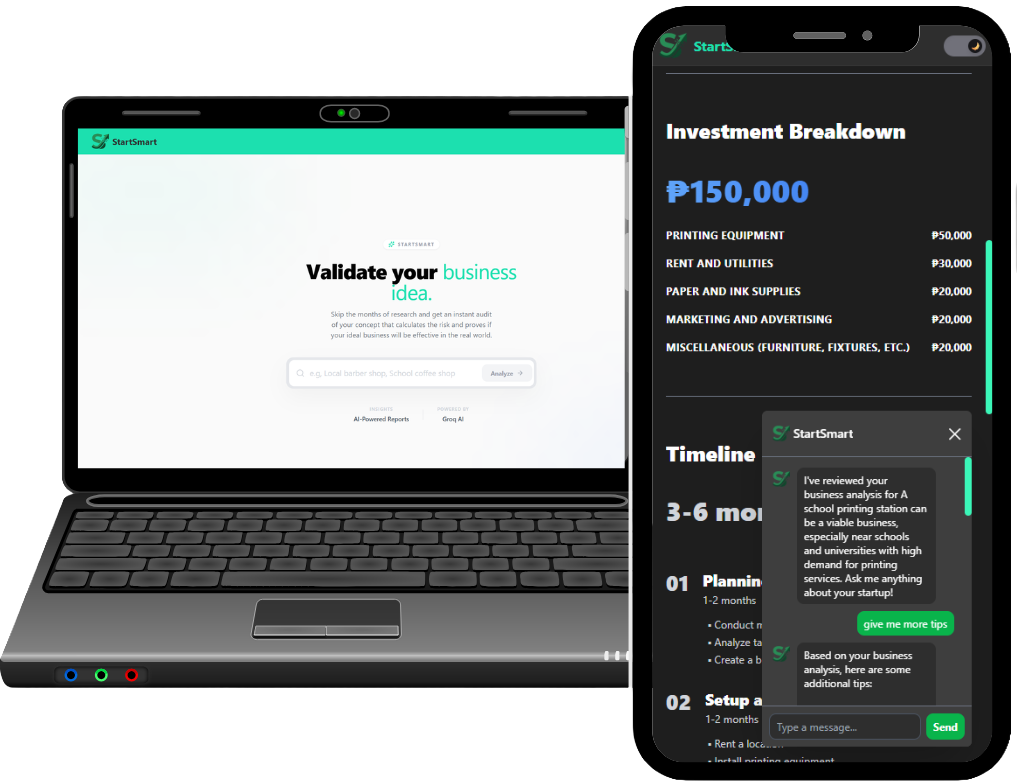
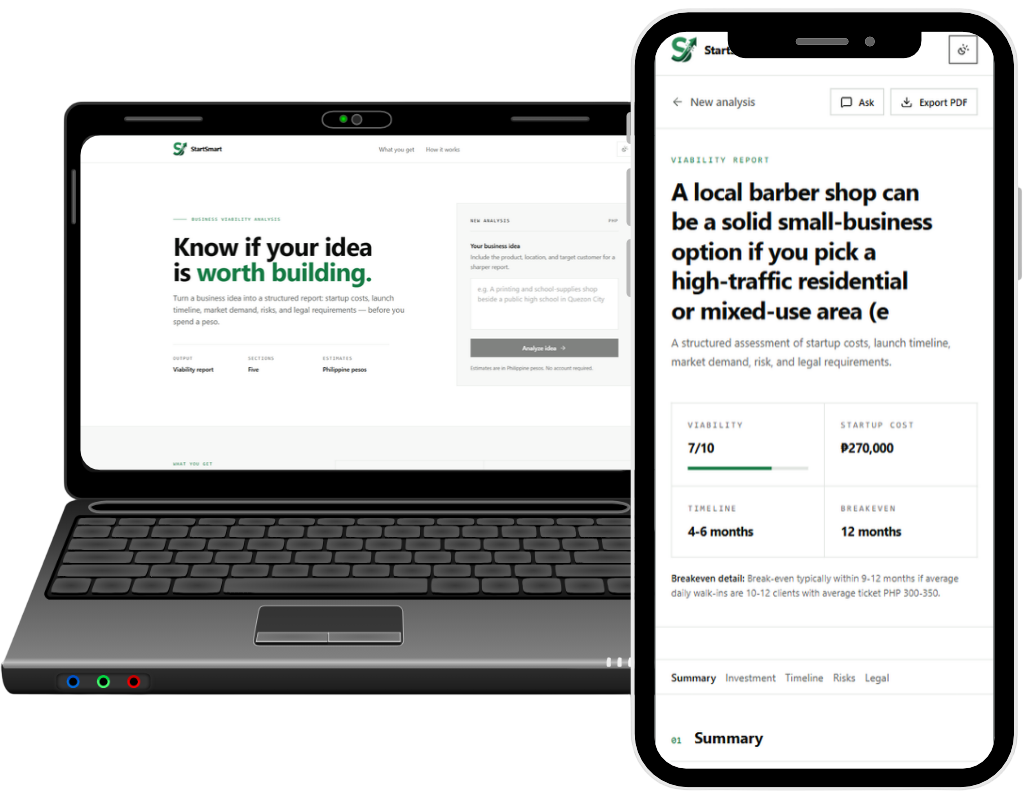
Chore: updated startsmart project image

diff --git a/src/components/containers/FeaturedProjects.jsx b/src/components/containers/FeaturedProjects.jsx
@@ -65,6 +65,15 @@ function FeaturedProjects() {
       ],
     },
     {
+      name: "StartSmart",
+      description:
+        "StartSmart is an AI-powered business idea analyzer that breaks down any concept into a full viability report no sign-up needed. Just type your idea and instantly get a viability score, startup cost breakdown, launch timeline, market and risk assessment, and a legal compliance checklist. Plus, an AI chatbot that knows your idea and can answer any follow-up questions. Turn your idea into a roadmap in seconds.",
+      link: "startsmartgo.vercel.app",
+      code: "github.com/ehrvayn/StartSmart",
+      image: StartSmartImg,
+      tech: ["Groq AI", "TypeScript", "React", "Tailwind", "Next.js"],
+    },
+    {
       name: "My Portfolio",
       description:
         "My Portfolio showcases my full-stack development work with a clean, responsive design highlighting my projects, certifications, and technical skills. It features an AI-powered chatbot built with Groq API integration, demonstrating my ability to create engaging interfaces and implement advanced technologies.",
@@ -72,21 +81,6 @@ function FeaturedProjects() {
       code: "github.com/ehrvayn/Portfolio",
       image: PortfolioImg,
       tech: ["Groq AI", "JavaScript", "React", "Tailwind"],
-    },
-    {
-      name: "StartSmart",
-      description:
-        "StartSmart is an AI-powered business idea analyzer that breaks down any concept into a full viability report no sign-up needed. Just type your idea and instantly get a viability score, startup cost breakdown, launch timeline, market and risk assessment, and a legal compliance checklist. Plus, an AI chatbot that knows your idea and can answer any follow-up questions. Turn your idea into a roadmap in seconds.",
-      link: "startsmartgo.vercel.app",
-      code: "github.com/ehrvayn/StartSmart",
-      image: StartSmartImg,
-      tech: [
-        "Groq AI",
-        "TypeScript",
-        "React",
-        "Tailwind",
-        "Next.js",
-      ],
     },
     // {
     //   name: "NavSumaro",

diff --git a/src/assets/info/MyInfo.js b/src/assets/info/MyInfo.js
@@ -91,7 +91,7 @@ Live: techhub.vercel.app
 - StartSmart — AI-powered business idea analyzer
    - Instant viability analysis with score, cost breakdown, timeline, and risk assessment
    - AI chatbot powered by Groq's API with full business idea context
-   - Tech: React, Tailwind, Node.js, Express.js, Groq API, TypeScript
+   - Tech: React, Tailwind, Next.js, Groq API, TypeScript
    - Status: Completed
    - Live: startsmartgo.vercel.app
 
@@ -104,12 +104,12 @@ Live: techhub.vercel.app
    - Status: Completed
    - Live: interview-spark.vercel.app
 
-- NavSumaro — Integrated Academic Platform (Team Lead - CTO)
-   - All-in-one student platform for universities
-   - Features: Forums & Q&A, Messaging, Marketplace, Email verification
-   - Tech Stack: React, Node.js, PostgreSQL, Prisma
-   - Status: Completed (PACUCOA Level 2 Presentation)
-   - Team: 7 members (CEO, CIO, CMO, CFO, CHRO, COO, CTO)
+// - NavSumaro — Integrated Academic Platform (Team Lead - CTO)
+//    - All-in-one student platform for universities
+//    - Features: Forums & Q&A, Messaging, Marketplace, Email verification
+//    - Tech Stack: React, Node.js, PostgreSQL, Prisma
+//    - Status: Completed (PACUCOA Level 2 Presentation)
+//    - Team: 7 members (CEO, CIO, CMO, CFO, CHRO, COO, CTO)
 
 - Portfolio Website — personal portfolio with AI assistant
    - Custom chatbot powered by Groq's API
